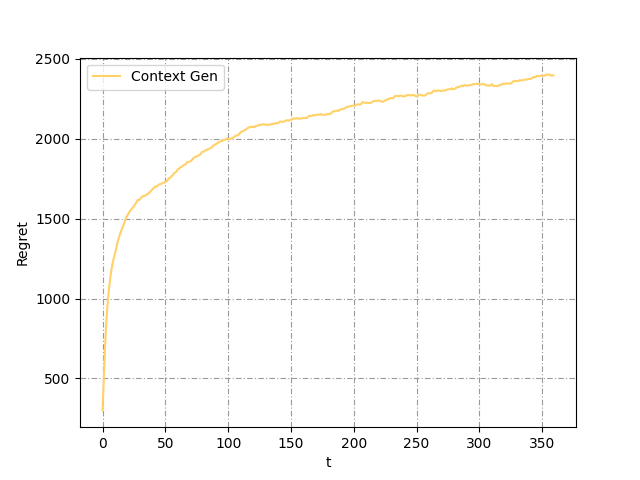
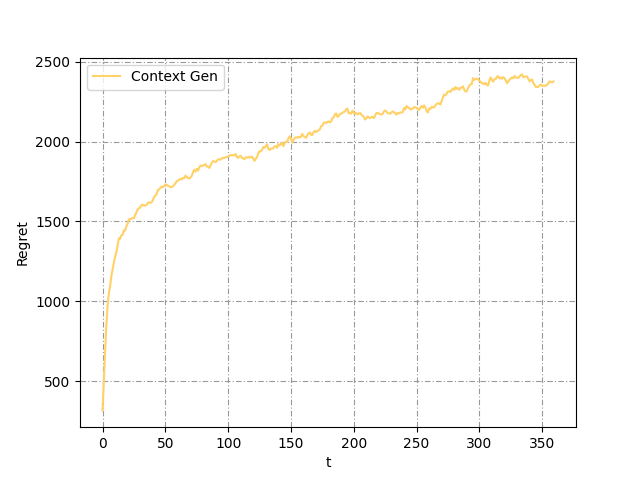
aggiornato

diff --git a/experiments/experiment_4.py b/experiments/experiment_4.py
@@ -27,7 +27,7 @@ class Experiment4():
         self.opt = np.max(np.multiply(self.p, self.prices)) 
 
         self.T = 360 # number of days
-        self.n_experiments = 100
+        self.n_experiments = 10
 
         self.reward_log = []
         self.reward_per_experiments = []
@@ -61,7 +61,7 @@ class Experiment4():
                     
                     p_class, p_labels = person
                 
-                    pulled_arm = context_gen.pull_arm(p_labels)
+                    pulled_arm, _ = context_gen.pull_arm(p_labels)
                     reward = env.round(pulled_arm, p_class)
 
                     current_opt = np.max(np.multiply(self.cm.conv_rates[p_class], self.prices))

diff --git a/learners.py b/learners.py
@@ -124,14 +124,6 @@ class TS_Learner(Learner):
         self.beta_parameters[pulled_arm, 0] = self.beta_parameters[pulled_arm, 0] + buyer
         self.beta_parameters[pulled_arm, 1] = self.beta_parameters[pulled_arm, 1] + not_buyer
 
-    def update_more(self, pulled_arm, reward, buyer, not_buyer):
-        self.t+=1
-
-        self.update_observations(pulled_arm, reward)
-        self.beta_parameters[pulled_arm, 0] = self.beta_parameters[pulled_arm, 0] + buyer
-        self.beta_parameters[pulled_arm, 1] = self.beta_parameters[pulled_arm, 1] + not_buyer
-
-
     def success_prob(self, arm):
         # alpha: successes of the arm
         # beta: failures of the arm 
